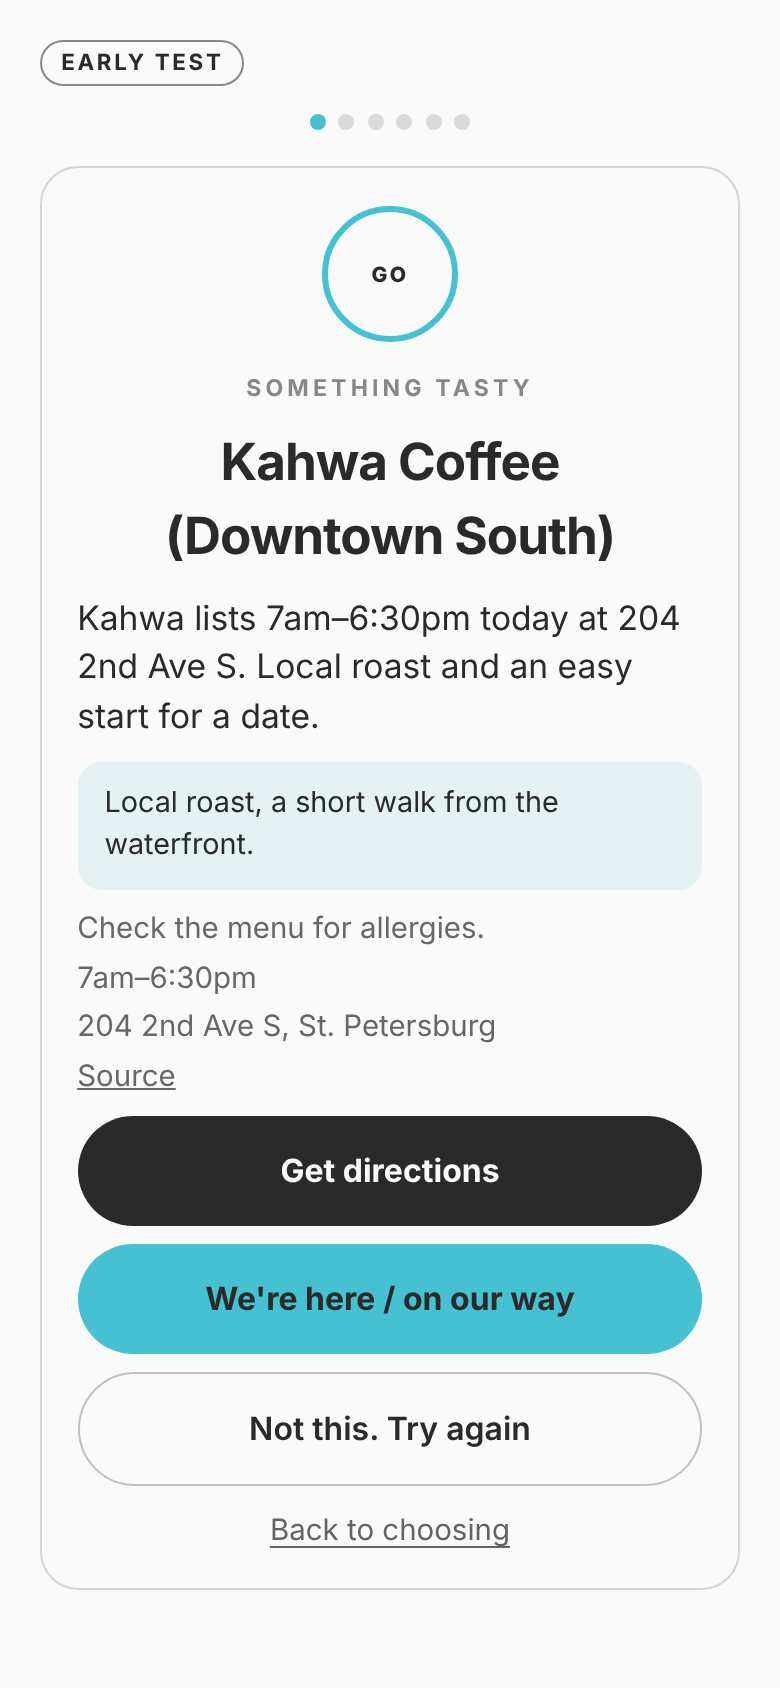
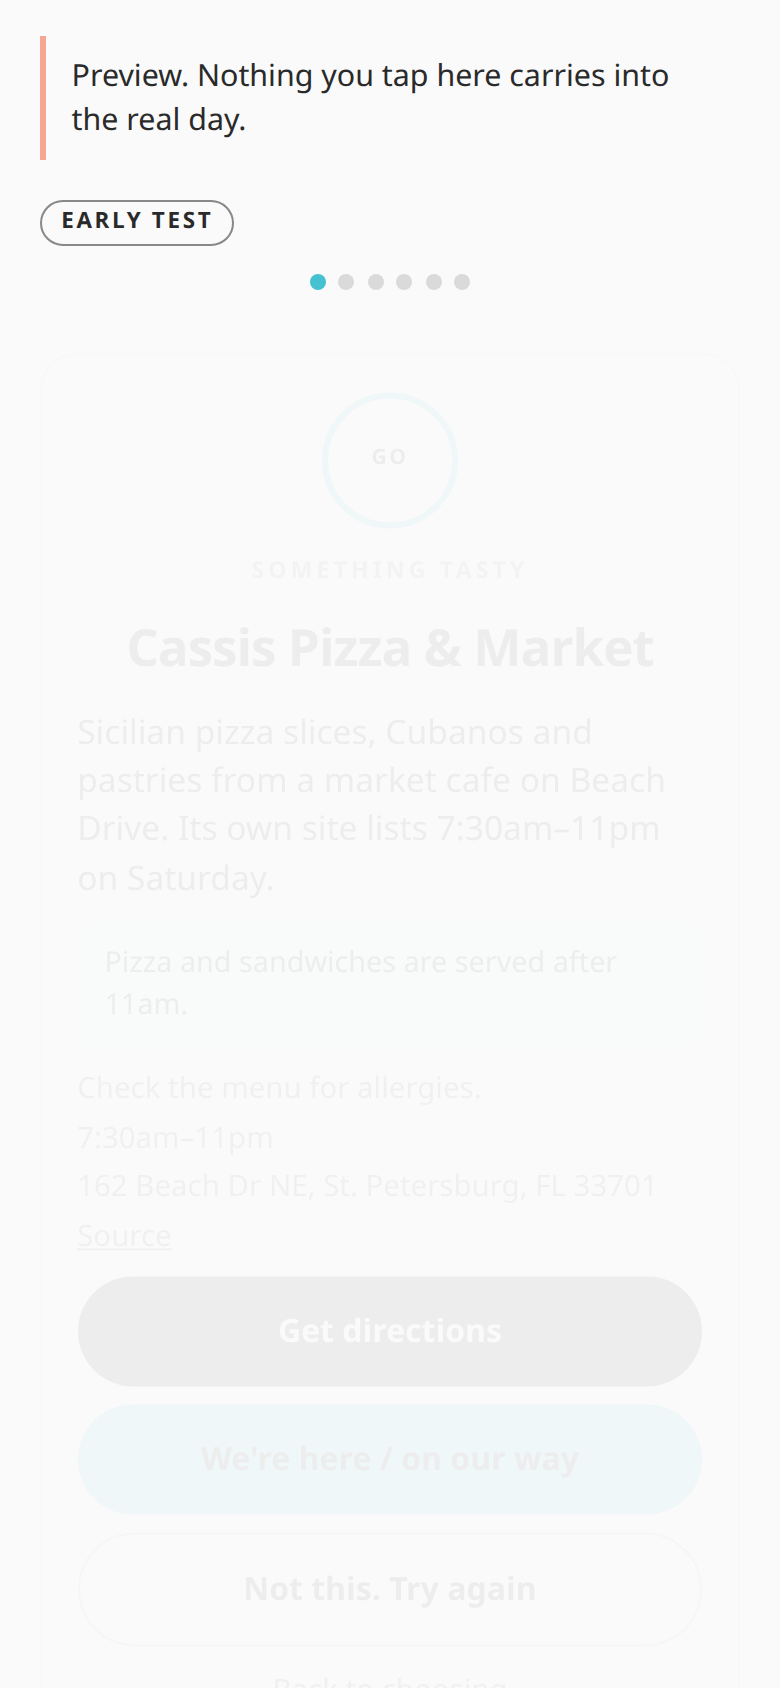
Mark Pacific Counter seafood-centric and use an allergy checkbox (#31)
The create screen checkbox is the only allergy trigger. The share link carries that yes/no, and a no-seafood day no longer offers Pacific Counter.

diff --git a/index.html b/index.html
@@ -386,8 +386,8 @@
     }
     .rate { display: flex; flex-wrap: wrap; gap: 0.45rem; margin: 0.45rem 0 0; }
     .ask { margin: 0 0 1.1rem; padding: 0.8rem 0.9rem; border-radius: 0.9rem; background: rgba(245, 167, 145, 0.16); }
-    .check { display: flex; gap: 0.6rem; align-items: flex-start; margin: 0.4rem 0 0.9rem; cursor: pointer; }
-    .check input { margin-top: 0.3rem; width: 1.1rem; height: 1.1rem; }
+    .check { display: flex; gap: 0.75rem; align-items: center; margin: 0.4rem 0 0.9rem; cursor: pointer; min-height: 44px; }
+    .check input { width: 1.25rem; height: 1.25rem; flex: 0 0 auto; }
     .desk-tip {
       margin: 0 0 0.6rem;
       padding: 0.85rem 0.95rem;
@@ -510,6 +510,10 @@
             <p class="meta">This is what shapes the day. Add food likes, pace, and anything to avoid. Different notes make different days.</p>
             <button type="button" class="learn" id="learn-context">Learn more</button>
           </div>
+        </label>
+        <label class="check">
+          <input type="checkbox" id="food-allergy" name="foodAllergy" />
+          <span>Someone has a food allergy</span>
         </label>
         <button type="submit" class="btn btn-primary" id="make">Make the day</button>
       </form>
@@ -1167,7 +1171,7 @@
       {"id": "pin-wok-bowl", "name": "Pin Wok & Bowl", "feel": "taste", "meal": "lunch", "menuFocus": "mixed", "menuSource": "https://pinwokandbowl.com/food-menu", "menuChecked": "2026-10-08", "dinner": true, "costBand": "mid", "tags": ["thai", "sushi", "poke", "japanese", "curry", "noodles", "indoor"], "address": "445 Central Avenue, St. Petersburg, FL 33701", "query": "Pin Wok & Bowl, 445 Central Avenue, St. Petersburg, FL", "source": "https://pinwokandbowl.com/", "week": {"0": [12, 21], "1": null, "2": [11.5, 21], "3": [11.5, 21], "4": [11.5, 21], "5": [11.5, 22], "6": [12, 22]}, "split": {"2": [15, 16], "3": [15, 16], "4": [15, 16], "5": [15, 16]}, "hoursText": "Monday Closed; Tuesday-Thursday Lunch Hours 11:30 AM - 3:00 PM, Dinner Hours 4:00 PM - 9:00 PM; Friday Lunch Hours 11:30 AM - 3:00 PM, Dinner Hours 4:00 PM - 10:00 PM; Saturday 12:00 PM - 10:00 PM; Sunday 12:00 PM - 9:00 PM", "hoursChecked": "2026-10-08", "hint": "The site recommends making a reservation ahead of time.", "why": "Thai curries, pad thai, sushi rolls and poke bowls in one downtown Central Ave stop."},
       {"id": "perrys-porch", "name": "Perry's Porch", "feel": "taste", "meal": "lunch", "menuFocus": "mixed", "menuSource": "https://cdn.prod.website-files.com/66327710640914aa1aff6ace/687a766b6b77f3e636923561_Perry%27s%20Porch%20Dinner%20Menu.pdf", "menuChecked": "2026-10-08", "dinner": true, "costBand": "mid", "tags": ["american", "seafood", "sandwiches", "burgers", "waterfront", "pier", "patio", "family"], "address": "335 2nd Ave NE, St. Petersburg, FL 33701", "query": "Perry's Porch, 335 2nd Ave NE, St. Petersburg, FL", "source": "https://www.perrysporch.com/", "week": {"0": [7, 21], "1": [7, 22], "2": [7, 22], "3": [7, 22], "4": [7, 22], "5": [7, 22], "6": [7, 22]}, "hoursText": "Monday -Saturday 7a-11am | Coffee, 11am-4pm | Lunch, 4pm-10pm | Dinner; Sunday 7a-11am | Coffee, 11am-4pm | Lunch, 4pm-9pm | Dinner", "hoursChecked": "2026-10-08", "hint": "Perry's Porch is cashless: debit or credit cards only.", "why": "Lunch or dinner with park and waterfront views at the entrance to the St. Pete Pier."},
       {"id": "joey-brooklyns-pizza", "name": "Joey Brooklyn's Famous Pizza Kitchen", "feel": "taste", "meal": "lunch", "menuFocus": "mixed", "menuSource": "https://joeybrooklynsfamouspizzakitchen.com/", "menuChecked": "2026-10-08", "costBand": "cheap", "tags": ["pizza", "slices", "italian", "sandwiches", "wings", "late night"], "address": "210 1st Ave N, St. Petersburg, FL 33701", "query": "Joey Brooklyn's Famous Pizza Kitchen, 210 1st Ave N, St. Petersburg, FL", "source": "https://joeybrooklynsfamouspizzakitchen.com/", "week": {"0": [11, 25], "1": [11, 25], "2": [11, 25], "3": [11, 25], "4": [11, 27], "5": [11, 27], "6": [11, 27]}, "hoursText": "Mon 11:00 am – 01:00 am; Tue 11:00 am – 01:00 am; Wed 11:00 am – 01:00 am; Thu 11:00 am – 03:00 am; Fri 11:00 am – 03:00 am; Sat 11:00 am – 03:00 am; Sun 11:00 am – 01:00 am", "hoursChecked": "2026-10-08", "hint": "Pizza is sold by the slice; a cheese slice is $4 plus $1 per topping.", "why": "Cheap pizza by the slice downtown by Jannus Live, open late every night."},
-      {"id": "pacific-counter-downtown", "name": "Pacific Counter (Downtown St. Pete)", "feel": "taste", "meal": "lunch", "menuFocus": "mixed", "menuSource": "https://pacificcounter.com/build-your-own/", "menuChecked": "2026-10-08", "dinner": true, "costBand": "cheap", "tags": ["poke", "hawaiian", "sushi burrito", "bowls", "boba", "hot dogs", "indoor"], "address": "660 Central Avenue, St. Petersburg, FL 33701", "query": "Pacific Counter, 660 Central Avenue, St. Petersburg, FL", "source": "https://pacificcounter.com/", "week": {"0": [11, 21], "1": [11, 21], "2": [11, 21], "3": [11, 21], "4": [11, 21], "5": [11, 21], "6": [11, 21]}, "hoursText": "Downtown St. Pete, 660 Central Avenue: Hours Mon - Sun: 11am - 9pm", "hoursChecked": "2026-10-08", "hint": "You build your own bowl or burrito. Besides fish, the proteins include baked or BBQ chicken, tofu and mushrooms, and the one you pick costs extra.", "why": "Build-your-own poke bowls and sushi burritos on Central Ave, with quick counter service."},
+      {"id": "pacific-counter-downtown", "name": "Pacific Counter (Downtown St. Pete)", "feel": "taste", "meal": "lunch", "menuFocus": "seafood-centric", "menuSource": "https://pacificcounter.com/build-your-own/", "menuChecked": "2026-10-09", "dinner": true, "costBand": "cheap", "tags": ["poke", "hawaiian", "sushi burrito", "bowls", "boba", "hot dogs", "indoor"], "address": "660 Central Avenue, St. Petersburg, FL 33701", "query": "Pacific Counter, 660 Central Avenue, St. Petersburg, FL", "source": "https://pacificcounter.com/", "week": {"0": [11, 21], "1": [11, 21], "2": [11, 21], "3": [11, 21], "4": [11, 21], "5": [11, 21], "6": [11, 21]}, "hoursText": "Downtown St. Pete, 660 Central Avenue: Hours Mon - Sun: 11am - 9pm", "hoursChecked": "2026-10-08", "hint": "You build your own bowl or burrito. That page lists tuna, salmon, shrimp, calamari and krab beside baked or BBQ chicken, tofu and mushrooms. The protein you pick costs extra.", "why": "Build-your-own poke bowls and sushi burritos on Central Ave, with quick counter service."},
       {"id": "cassis-pizza-market", "name": "Cassis Pizza & Market", "feel": "taste", "meal": "lunch", "menuFocus": "mixed", "menuSource": "https://cassisstpete.com/market/", "menuChecked": "2026-10-08", "dinner": true, "costBand": "mid", "tags": ["pizza", "sandwiches", "cuban", "coffee", "pastries", "ice cream"], "address": "162 Beach Dr NE, St. Petersburg, FL 33701", "query": "Cassis Market, 162 Beach Dr NE, St. Petersburg, FL", "source": "https://cassisstpete.com/market/", "week": {"0": [7.5, 22], "1": null, "2": [7.5, 22], "3": [7.5, 22], "4": [7.5, 22], "5": [7.5, 23], "6": [7.5, 23]}, "hoursText": "Monday – Closed; Tuesday – Thursday 7:30am – 10pm; Friday & Saturday 7:30am – 11pm; Sunday 7:30am – 10:00pm. Hours are subject to change, please call to confirm hours as needed.", "hoursChecked": "2026-10-08", "hint": "Pizza and sandwiches are served after 11am.", "why": "Sicilian pizza slices, Cubanos and pastries from a market cafe on Beach Drive."},
       {"id": "baba-on-central", "name": "Baba on Central", "feel": "taste", "meal": "dinner", "menuFocus": "mixed", "menuSource": "https://www.eatatbaba.com/restaurant", "menuChecked": "2026-10-08", "dinner": true, "costBand": "mid", "tags": ["mediterranean", "greek", "lebanese", "falafel", "vegetarian", "kenwood", "indoor"], "address": "2701 Central Ave, St. Petersburg, FL", "query": "Baba on Central, 2701 Central Ave, St. Petersburg, FL", "source": "https://www.eatatbaba.com/contact/", "week": {"0": [17, 22], "1": null, "2": [17, 22], "3": [17, 22], "4": [17, 22], "5": [17, 22], "6": [17, 22]}, "hoursText": "Restaurant Hours Tue - Sun: 5pm - 10pm. Happy Hour @ the Bar: Tue - Thur 5-7pm", "hoursChecked": "2026-10-08", "hint": "Book on Resy; the restaurant asks parties larger than 6 to call.", "why": "Greek and Lebanese mezze, falafel and grilled plates for a shared dinner in Kenwood."},
       {"id": "bandit-coffee", "name": "Bandit Coffee Co.", "feel": "taste", "meal": "coffee", "menuFocus": "mixed", "menuSource": "https://cdn.shopify.com/s/files/1/1382/7135/files/CURRENT-BANDIT-MENU-2-11-25-kitchen.pdf", "menuChecked": "2026-10-08", "costBand": "cheap", "tags": ["coffee", "bakery", "breakfast", "roaster", "vegan", "indoor", "patio"], "address": "2662 Central Ave, St. Petersburg, FL 33712", "query": "Bandit Coffee Co., 2662 Central Ave, St. Petersburg, FL", "source": "https://banditcoffee.co/pages/visit", "week": {"0": [7, 15], "1": [7, 15], "2": [7, 15], "3": [7, 15], "4": [7, 15], "5": [7, 15], "6": [7, 15]}, "hoursText": "café hours: 7am - 3pm daily kitchen all day", "hoursChecked": "2026-10-08", "hint": "Counter service with seating indoors and outdoors. On-site parking is for customers during business hours, and there's no wifi.", "why": "A locally owned café and coffee roaster on Central Avenue that makes all its bread and pastries in-house and serves coffee every day from 7am."},
@@ -1460,14 +1464,6 @@
       return terms;
     }
 
-    // Does the note mention an allergy? Only then do food cards say "Check the menu for allergies."
-    function mentionsAllergy(p) {
-      var text = noteText(p)
-        .replace(/\b(?:no|not|without|zero|isn['’]?t|aren['’]?t|(?:does|do)n['’]?t\s+have|(?:neither|none)\s+of\s+us\s+(?:has|have)|nobody\s+has)\s+(?:any\s+|known\s+|food\s+|[a-z]+\s+){0,2}allerg\w*/g, " ")
-        .replace(/\ballerg\w*\s*[:\-–]\s*(?:none|n\/?a|no|nope|nothing)\b|\ballergy[- ](?:free|friendly)\b/g, " ");
-      return /\ballerg(?:y|ies|ic|ens?)\b|\bc(?:o)?eliac\b|\banaphyla\w*|\bepi-?pens?\b/.test(text);
-    }
-
     function avoidsStop(p, s) {
       var terms = avoidTerms(p);
       if (!terms.length) return false;
@@ -1656,8 +1652,9 @@
         if (alts.length) anchor.alts = alts;
       }
       var deck = { v: 1, anchor: anchor, pools: pools, park: !!wants.parking };
-      // One bit, so food cards can say "Check the menu for allergies." The note itself never leaves.
-      if (mentionsAllergy(p)) deck.allergy = true;
+      // Jake's decision, 2026-10-08: the create-screen checkbox is the only allergy trigger.
+      // The share link carries that yes/no. It does not carry the note or which allergen.
+      if (p.allergy === true) deck.allergy = true;
       return deck;
     }
 
@@ -2457,7 +2454,8 @@
       return '<a class="btn btn-ink" href="' + esc(mapsUrl(v.query)) + '" target="_blank" rel="noopener">' + esc(label || "Get directions") + "</a>";
     }
 
-    // One plain line on food cards when the note mentioned an allergy. Nothing says a place is safe.
+    // One plain line on food cards when the creator checked "Someone has a food allergy."
+    // Nothing says a place is safe.
     function allergyHtml(v) {
       var s = v && !v.custom && STOP_BY_ID[v.id];
       if (!s || !ensureDeck(plan).allergy || !(s.feel === "taste" || s.dinner)) return "";
@@ -2936,6 +2934,7 @@
       document.getElementById("anchor-time").value = an ? an.time : "";
       document.getElementById("anchor-where").value = an ? an.where : "";
       if (an) document.getElementById("set-box").setAttribute("open", "");
+      document.getElementById("food-allergy").checked = !!(p && p.allergy);
       applyPills(p || {});
       renderKinds(p && p.occasion, p && p.kind);
       document.getElementById("form-err").classList.add("hidden");
@@ -2993,6 +2992,7 @@
         budget: "",
         budgetAmount: String(Math.round(Number(amount))),
         must: document.getElementById("must").value.trim().slice(0, 400),
+        allergy: document.getElementById("food-allergy").checked === true,
         anchor: anName ? { name: anName.slice(0, 80), time: anTime, where: anWhere.slice(0, 120) } : null,
         skip: plan && plan.date === date ? (plan.skip || []) : [],
         rebuild: plan ? (Number(plan.rebuild) || 0) : 0,
